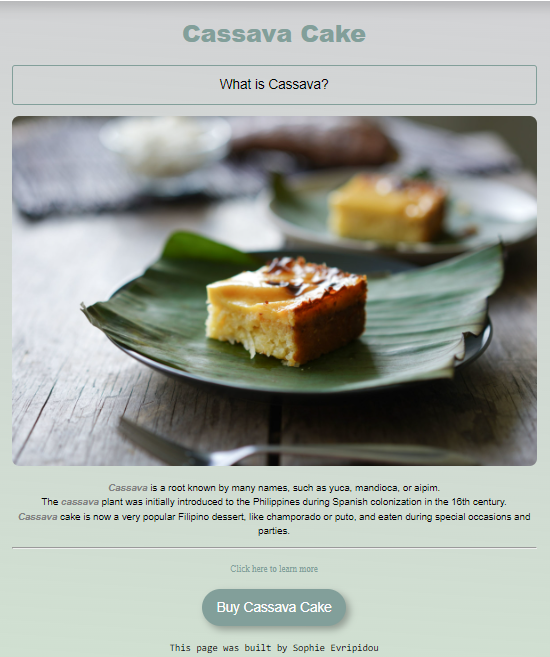
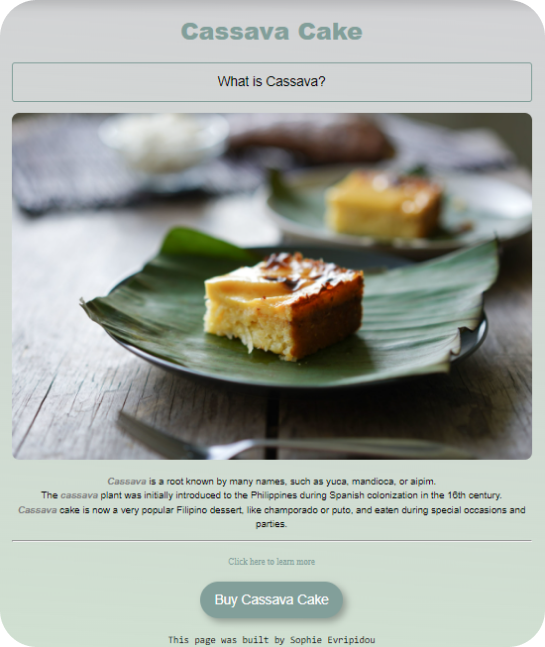
added s.e

diff --git a/styles/portfolio.css b/styles/portfolio.css
@@ -82,6 +82,7 @@ p {
   font-size: 18px;
   line-height: 27px;
   padding: 12px 24px;
+  box-shadow: 0 5px 10px rgba(0, 0, 0, 0.3);
 }
 
 .btn-branding-outline {
@@ -91,6 +92,13 @@ p {
   font-size: 18px;
   line-height: 27px;
   padding: 12px 24px;
+  box-shadow: 0 5px 10px rgba(0, 0, 0, 0.3);
+}
+
+.btn-branding-outline:hover {
+  background-color: #326729;
+  border-color: #c1cfbc;
+  transition: ease-in-out;
 }
 
 .btn-branding:hover {
@@ -107,6 +115,15 @@ p {
 
 .sophia {
   width: 400px;
+}
+
+.se {
+  position: absolute;
+  top: 0;
+  left: 0;
+  right: 0;
+  bottom: 0;
+  width: 100px;
 }
 
 @media (max-width: 900px) {

diff --git a/about.html b/about.html
@@ -24,6 +24,7 @@
 </head>
 <body>
 <div class="about container" >
+    <img src="images/s.e.png" alt="" class="se">
 <div class="row">
 <div class="col-lg-6">
 <div class="about-content">
